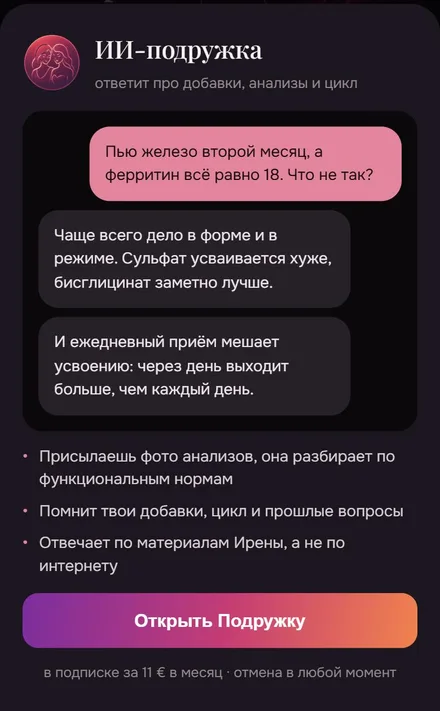
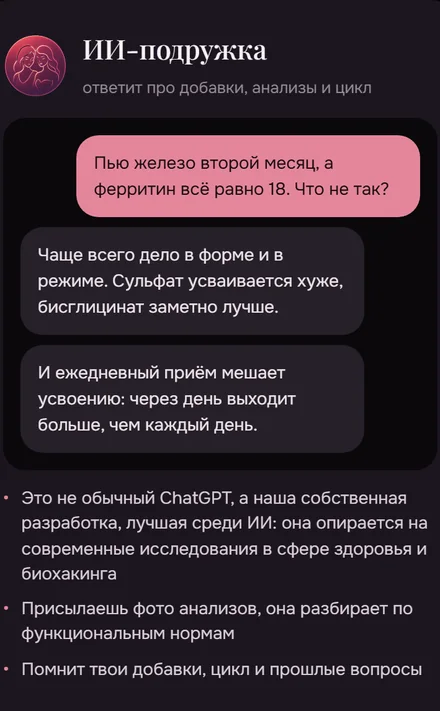
Preview2: 5 app screens, how-it-works copy, reviews note, natural-height review shots, centered price on desktop (from landing-v2)

diff --git a/preview2/index.html b/preview2/index.html
@@ -144,7 +144,7 @@ p{margin:0;text-wrap:pretty}
 .shot{flex:0 0 min(80vw,300px);margin:0;scroll-snap-align:start;display:flex;flex-direction:column;background:var(--card);border:1px solid rgba(34,25,32,.08);border-radius:22px;padding:16px 14px 14px}
 .shot__q{font-family:var(--serif);font-style:italic;font-size:19px;line-height:1.3;margin:0 0 14px;color:var(--ink)}
 .shot__tag{margin-bottom:8px;font-size:12px;font-weight:600;letter-spacing:.12em;text-transform:uppercase;color:var(--muted-2)}
-.shot img{display:block;width:100%;height:auto;margin-top:auto;border-radius:14px;aspect-ratio:720/780;object-fit:contain;object-position:50% 100%;background:#0E1621}
+.shot img{display:block;width:100%;height:auto;border-radius:14px}
 .rev-note{margin-top:4px;font-size:13px;color:var(--muted-2)}
 
 /* PRICE */
@@ -205,8 +205,8 @@ body.show-sticky .sticky{transform:none;visibility:visible;transition:transform 
   .hero__trust{text-align:left;max-width:560px}
   .tasks{grid-template-columns:repeat(2,minmax(0,1fr));column-gap:48px}
   .more{max-width:360px;margin:16px auto 0}
-  .phones{overflow:visible;margin-right:0;padding-right:0;gap:32px}
-  .phone{flex:0 0 220px}
+  .phones{overflow:visible;margin-right:0;padding-right:0;gap:24px}
+  .phone{flex:1 1 0;min-width:0}
   .sticky{display:none}
   .irena{display:grid;grid-template-columns:220px minmax(0,1fr);gap:64px;align-items:start}
   .irena__photo{width:220px;height:220px}
@@ -215,9 +215,8 @@ body.show-sticky .sticky{transform:none;visibility:visible;transition:transform 
   .rev-nav{display:flex}
   .shots{gap:16px}
   .shot{flex-basis:300px}
-  .price__grid{display:grid;grid-template-columns:minmax(0,1fr) 440px;gap:72px;align-items:center}
-  .price .h2{font-size:40px}
-  .card{margin-top:0}
+  .price__grid{max-width:568px}
+  .price .h2{font-size:40px;text-align:center}
   .faq-wrap{max-width:760px}
   .final{padding:96px 0;text-align:center}
   .final p{max-width:560px;margin-inline:auto}
@@ -330,16 +329,18 @@ if (window.YM_COUNTER) {
 <div class="wrap">
 <h2 class="h2" id="how-h">Как это работает</h2>
 <ol class="steps">
-<li class="step"><span class="step__n">01</span><div><div class="step__when">Утром</div><p class="step__what">Открываешь приложение: подкаст дня уже ждёт тебя каждое утро.</p></div></li>
-<li class="step"><span class="step__n">02</span><div><div class="step__when">В дороге или за готовкой</div><p class="step__what">Слушаешь, когда удобно. Я простым языком объясняю, что происходит в теле и как этим пользоваться.</p></div></li>
-<li class="step"><span class="step__n">03</span><div><div class="step__when">Вечером</div><p class="step__what">Делаешь одно небольшое действие и отмечаешь день пройденным.</p></div></li>
+<li class="step"><span class="step__n">01</span><div><div class="step__when">Утром</div><p class="step__what">Каждое утро в приложении тебя ждёт новый подкаст программы, которую ты выбрала.</p></div></li>
+<li class="step"><span class="step__n">02</span><div><div class="step__when">Днём</div><p class="step__what">Слушаешь его в наушниках, когда удобно. 20-30 минут простыми словами по твоей теме.</p></div></li>
+<li class="step"><span class="step__n">03</span><div><div class="step__when">Вечером</div><p class="step__what">Делаешь одно небольшое задание из выпуска и отмечаешь день. Так, шаг за шагом, проходишь программу.</p></div></li>
 </ol>
 <div class="inside">
 <div class="inside__lbl">Так это выглядит внутри</div>
 <div class="phones">
 <figure class="phone"><img src="assets/img/app-home.webp" width="440" height="711" alt="Главный экран приложения: подкаст дня" loading="lazy"><figcaption>Подкаст дня на главном экране</figcaption></figure>
-<figure class="phone"><img src="assets/img/app-sleep.webp" width="440" height="711" alt="Экран программы «Архитектура сна» со списком дней" loading="lazy"><figcaption>Все дни программы</figcaption></figure>
-<figure class="phone"><img src="assets/img/app-friend.webp" width="440" height="711" alt="Экран ИИ-подружки" loading="lazy"><figcaption>ИИ-подружка отвечает на вопросы</figcaption></figure>
+<figure class="phone"><img src="assets/img/app-program.webp" width="440" height="711" alt="Экран программы со списком дней" loading="lazy"><figcaption>Все дни программы</figcaption></figure>
+<figure class="phone"><img src="assets/img/app-all.webp" width="440" height="711" alt="Экран со всеми программами" loading="lazy"><figcaption>Все 8 программ открыты сразу</figcaption></figure>
+<figure class="phone"><img src="assets/img/app-meditation.webp" width="440" height="711" alt="Экран медитации" loading="lazy"><figcaption>Медитации голосом Ирены</figcaption></figure>
+<figure class="phone"><img src="assets/img/app-friend.webp" width="440" height="711" alt="Экран ИИ-подружки с примером переписки" loading="lazy"><figcaption>ИИ-подружка: наша собственная разработка</figcaption></figure>
 </div>
 </div>
 <p class="reassure">Слушаешь в своём темпе. Программы не связаны между собой, догонять некого.</p>
@@ -367,7 +368,7 @@ if (window.YM_COUNTER) {
 <figure class="shot"><figcaption class="shot__tag">Тренировки</figcaption><p class="shot__q">«Впервые так сильно прочувствовала ягодицы в мостике!»</p><img src="assets/img/otzyv-36.webp" width="720" height="234" alt="Отзыв участницы: Впервые прочувствовала ягодицы в мостике" loading="lazy" decoding="async"></figure>
 <figure class="shot"><figcaption class="shot__tag">Сон</figcaption><p class="shot__q">«Моментально засыпаю»</p><img src="assets/img/otzyv-64.webp" width="720" height="433" alt="Отзыв участницы: С медитацией засыпает за пару минут" loading="lazy" decoding="async"></figure>
 </div>
-<div class="wrap"><p class="rev-note">У каждой свой результат.</p></div>
+<div class="wrap"><p class="rev-note">Каждый отзыв написала такая же занятая женщина, как ты. Следующий отзыв может быть твоим.</p></div>
 </section>
 
 <section class="section" aria-labelledby="irena-h">
